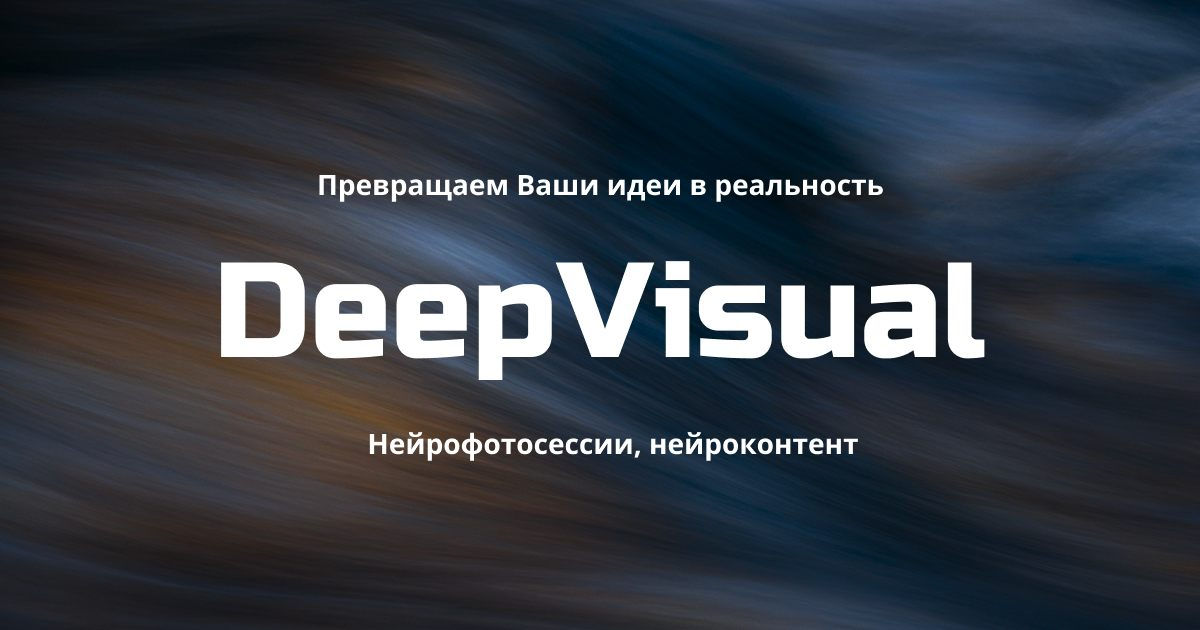
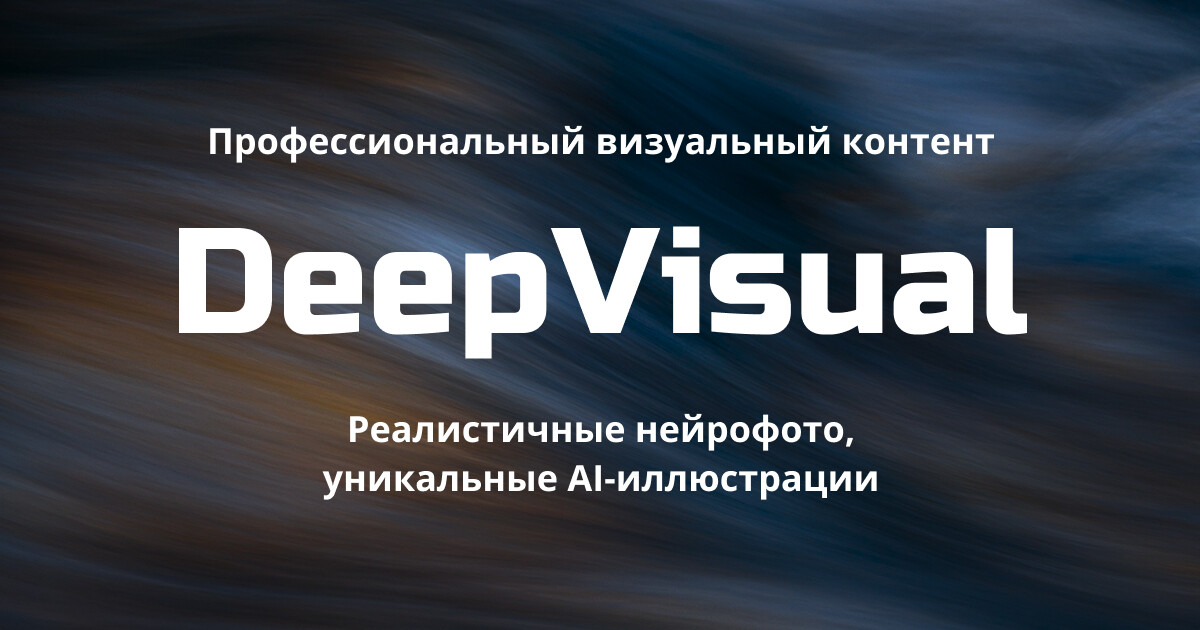
#change #seo - meta, h1

Changed region(s): [[0.1233, 0.3619, 0.8633, 0.6032], [0.2467, 0.6635, 0.74, 0.7841], [0.1542, 0.181, 0.8325, 0.3317]]

diff --git a/src/shared/constants/meta.ts b/src/shared/constants/meta.ts
@@ -1,6 +1,6 @@
 import type { Metadata } from "next"
 
-const SITE_NAME = "DeepVisual - нейрофотосессии, нейроконтент"
+const SITE_NAME = "DeepVisual: Нейрофотосессия на заказ за 24 часа"
 
 const metaConstants: Metadata = {
   title: {
@@ -8,7 +8,7 @@ const metaConstants: Metadata = {
     template: `%s | ${SITE_NAME}`,
   },
   description:
-    "Реалистичные нейрофотосессии на заказ, AI-иллюстрации и контент для соцсетей от 200₽ за изображение. Превращаем ваши идеи в реальность за 24 часа!",
+    "Генерация изображений нейросетями - создаем реалистичные нейрофото, аватарки, уникальные AI-иллюстрации и контент для соцсетей. Недорого - от 200₽ за штуку.",
   // manifest: "/web.manifest.json",
   icons: {
     icon: "/favicon.ico",

diff --git a/src/views/home/ui/hero/Hero.tsx b/src/views/home/ui/hero/Hero.tsx
@@ -8,13 +8,11 @@ const Hero = () => {
       <div className={s.wrap}>
         <ContentLayout>
           <div className={s.content}>
-            <p className={s.subtitle}>Превращаем Ваши идеи в&nbsp;реальность</p>
+            <p className={s.subtitle}>Профессиональный визуальный контент</p>
             <h1 className={s.title}>
-              DeepVisual <span>- нейрофотосессии, нейроконтент</span>
+              DeepVisual <span>- нейрофотосессии на заказ, нейроконтент</span>
             </h1>
-            <p className={s.subtitle}>
-              Создаем профессиональный визуальный контент с&nbsp;помощью передовых нейросетей
-            </p>
+            <p className={s.subtitle}>Реалистичные нейрофото, уникальные AI-иллюстрации</p>
           </div>
         </ContentLayout>
       </div>

diff --git a/src/views/error/ui/ErrorPage.module.scss b/src/views/error/ui/ErrorPage.module.scss
@@ -1,31 +1,34 @@
 @use "$styles/functions/convert";
+@use "$styles/mixins/typography";
 
 .block {
-	flex-grow: 1;
-	display: flex;
-	flex-direction: column;
+  flex-grow: 1;
+  display: flex;
+  flex-direction: column;
 
-	& > div {
-		flex-grow: 1;
-		display: flex;
-		flex-direction: column;
-	}
+  & > div {
+    flex-grow: 1;
+    display: flex;
+    flex-direction: column;
+  }
 }
 
 .wrap {
-	position: relative;
-	z-index: 1;
-	margin: auto;
-	text-align: center;
-	padding: convert.to-rem(60) 0;
+  position: relative;
+  z-index: 1;
+  margin: auto;
+  text-align: center;
+  padding: convert.to-rem(60) 0;
 }
 
 .title {
-	margin: convert.to-rem(20) auto;
+  margin: convert.to-rem(20) auto;
+
+  @include typography.h2;
 }
 
 .btnWrap {
-	margin: 0 auto;
-	width: fit-content;
-	margin-top: convert.to-rem(30);
+  margin: 0 auto;
+  width: fit-content;
+  margin-top: convert.to-rem(30);
 }

diff --git a/src/views/home/ui/hero/Hero.module.scss b/src/views/home/ui/hero/Hero.module.scss
@@ -49,12 +49,11 @@
 
 .subtitle {
   margin: 0 auto;
-  max-width: convert.to-rem(430);
+  max-width: convert.to-rem(650);
   text-wrap: balance;
 
   @include typography.h4;
 
   @include breakpoints.lg {
-    max-width: convert.to-rem(650);
   }
 }
